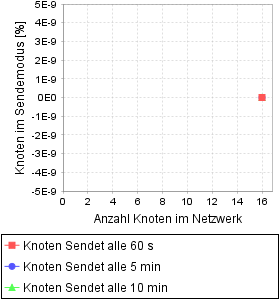
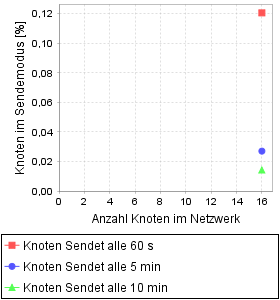
Partitionierungsanalyse implementiert

diff --git a/src/Simulator/Main.java b/src/Simulator/Main.java
@@ -36,7 +36,7 @@ public class Main {
 		//aodvEvaluationUnit.evaluateNetworkLivetimeStaticSendBehaviorOneDestination(100);
 		//aodvEvaluationUnit.evaluateNetworkPartitioningAnalysis(1);
 		//aodvEvaluationUnit.evaluateNetworkPartitioningAnalysis(10);
-		aodvEvaluationUnit.evaluateNetworkPartitioningAnalysis(100);
+		//aodvEvaluationUnit.evaluateNetworkPartitioningAnalysis(100);
 		//aodvEvaluationUnit.evaluateNetworkPartitioningAnalysis(1000);
 		
 		
@@ -44,5 +44,6 @@ public class Main {
 		//dsdvEvaluationUnit.evaluateSpeedAnalysis();
 		//dsdvEvaluationUnit.evaluateCostAnalysis();
 		//dsdvEvaluationUnit.evaluateNetworkLivetimeStaticSendBehaviorOneDestination(100);
+		dsdvEvaluationUnit.evaluateNetworkPartitioningAnalysis(100);
 	}
 }

diff --git a/src/DSDV/DsdvSimulator.java b/src/DSDV/DsdvSimulator.java
@@ -75,6 +75,13 @@ public class DsdvSimulator extends Simulator{
 		return (this.lifetimeAnalysisStaticBehaviorOneDestination(graph, networkWidth, transmissionPeriod, payloadSize));
 	}
 	
+	public long partitioningAnalysis(int networkWidth, int transmissionPeriod, int payloadSize) {
+		DsdvNetworkGraph graph = new DsdvNetworkGraph(networkWidth);
+		
+		
+		return this.partitioningAnalysisOnePayloadmessageDestination(graph, networkWidth, transmissionPeriod, payloadSize);
+	}
+	
 	public long getMsgTransmissionTime() {
 		return msgTransmissionTime;
 	}

diff --git a/src/AODV_RFC/AodvSimulator.java b/src/AODV_RFC/AodvSimulator.java
@@ -240,7 +240,7 @@ public class AodvSimulator extends Simulator{
 		AodvNetworkGraph graph = new AodvNetworkGraph(networkWidth);
 		
 		
-		return this.partitioningAnalysis(graph, networkWidth, transmissionPeriod, payloadSize);
+		return this.partitioningAnalysisOnePayloadmessageDestination(graph, networkWidth, transmissionPeriod, payloadSize);
 	}
 
 	public long getMsgTransmissionTime() {

diff --git a/src/SimulationNetwork/Simulator.java b/src/SimulationNetwork/Simulator.java
@@ -415,6 +415,8 @@ public abstract class Simulator {
 			networkNodes[id].setSimulator(this);
 			networkNodes[id].setDestinationNode(destinationNode);
 		}
+		
+		networkNodes[destinationNode].setBatteryPowered(false);
 			
 		do{
 					
